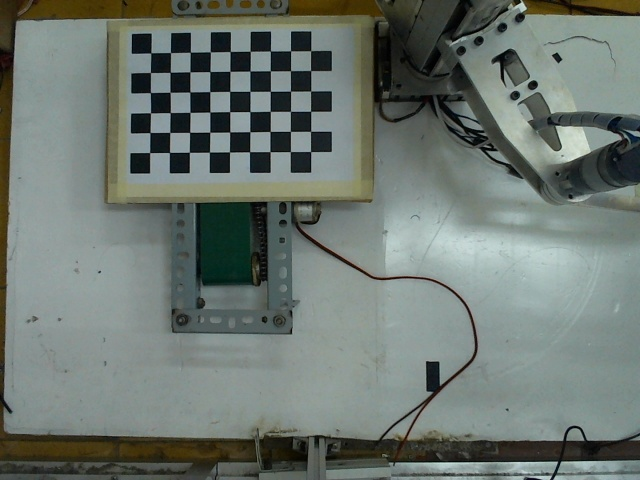
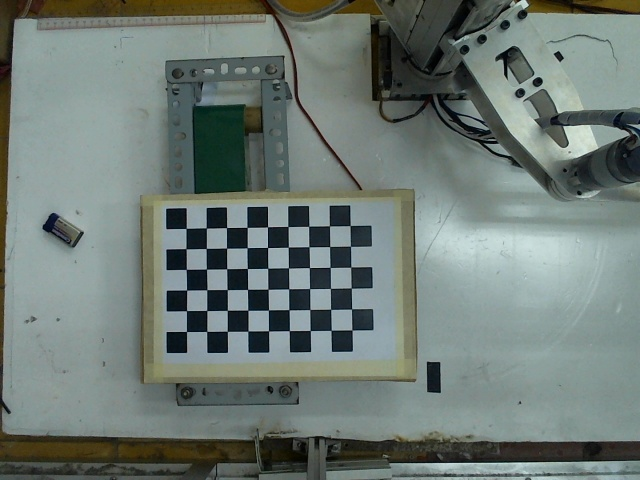
Update for mode 2

diff --git a/MainController.py b/MainController.py
@@ -54,9 +54,9 @@ class Ui_MainControllerUI(object):
             '1': [15, 20, 90],
             '2': [20, 20, 90],
             '3': [25, 20, 90],
-            '4': [15, 25, 90],
-            '5': [20, 25, 90],
-            '6': [25, 25, 90],
+            '4': [15, 30, 90],
+            '5': [20, 30, 90],
+            '6': [25, 30, 90],
         }
         self.objectCounting = 0
         self.currentDestination = 1
@@ -65,16 +65,28 @@ class Ui_MainControllerUI(object):
         self.runAgain = QtCore.QTimer()
         self.runAgain.timeout.connect(self.RunAgain)
         try:
+            #region: Load M, R, T, corners for Mode 1
             with np.load('Calib.npz') as X:
                 self.mtx, self.dist, self.rvects, self.tvects, self.corners = [X[i] for i in ('mtx','dist','rvecs','tvecs', 'corners')]
-                print(self.mtx)
            
             self.rodrigues_Vecs = InverseRodrigues(self.rvects)
             translate = np.reshape(self.tvects, (3, 1))
             K = np.concatenate((self.rodrigues_Vecs, translate), axis=1)
             a = self.mtx.dot(K).dot(np.array([[1, 1, 1, 1]]).T)
             self.s = a.item(2)
-            print(self.s)
+            #endregion
+
+            #region: Load M, R, T, corners for Mode 2
+            with np.load('Calib_bc.npz') as P:
+                self.mtx_BC, self.dist_BC, self.rvects_BC, self.tvects_BC, self.corners_BC = [P[i] for i in ('mtx','dist','rvecs','tvecs', 'corners')]
+
+            self.rodrigues_Vecs_BC = InverseRodrigues(self.rvects_BC)
+            translate_BC = np.reshape(self.tvects_BC, (3, 1))
+            K_bc = np.concatenate((self.rodrigues_Vecs_BC, translate_BC), axis=1)
+            a_bc = self.mtx_BC.dot(K_bc).dot(np.array([[1, 1, 1, 1]]).T)
+            self.s_BC = a_bc.item(2)
+            #endregion
+            
         except:
             print('error occured')
 
@@ -482,6 +494,7 @@ class Ui_MainControllerUI(object):
         self.ser = Ui_ConfigurationUI.ser
         self.mode = Ui_ConfigurationUI.mode - 1
         self.SetState(Ui_ConfigurationUI.state)
+        print(self.mode)
            
     ''' Open Configuration Ui '''
     def openCongiguration(self):
@@ -555,7 +568,7 @@ class Ui_MainControllerUI(object):
                 
                 mess = UARTMessage(nextX, nextY, nextAngle, 'r', 3)
                 mess_bytes = bytes(mess, encoding='utf-8')
-                time.sleep(0.5)
+                time.sleep(0.2)
                 self.ser.write(mess_bytes)
                 
             elif command == 'r':
@@ -621,12 +634,24 @@ class Ui_MainControllerUI(object):
             self.liveVidFrame.setPixmap(qPixMap)
             
             points = np.array([[cx, cy, 1]]).T
-            realPoints = ImgPoints2RealPoints(self.mtx, self.rodrigues_Vecs, self.tvects, points, self.s)
-            _x, _y = realPoints.item(0), realPoints.item(1)
+            
             print(cx, cy)
             _angle = angle * 180.0 / 3.14159
-            pointX = _x * 2.45 - 34.15
-            pointY = _y * 2.45 + 0
+            
+            # duoi dat
+            if self.mode == 0:
+                print('mode 0')
+                realPoints = ImgPoints2RealPoints(self.mtx, self.rodrigues_Vecs, self.tvects, points, self.s)
+                _x, _y = realPoints.item(0), realPoints.item(1)
+                pointX = _x * 2.45 - 34.15
+                pointY = _y * 2.45 + 0
+            # tren bang chuyen
+            elif self.mode == 1:
+                print('mode 1')
+                realPoints = ImgPoints2RealPoints(self.mtx_BC, self.rodrigues_Vecs_BC, self.tvects_BC, points, self.s_BC)
+                _x, _y = realPoints.item(0), realPoints.item(1)
+                pointX = _x * 2.45 - 30
+                pointY = _y * 2.45 + 20
             self.xProLbl.setText(str(pointX))
             self.yProLbl.setText(str(pointY))
             # print(_angle)
@@ -646,6 +671,9 @@ class Ui_MainControllerUI(object):
                     aveY += 0.4
                 else:
                     aveY += 0.2
+                if self.mode == 1:
+                    aveX += 1.0
+                    aveY += 1.7
                 self.sumX = 0
                 self.sumY = 0
                 self.sumAngle = 0
